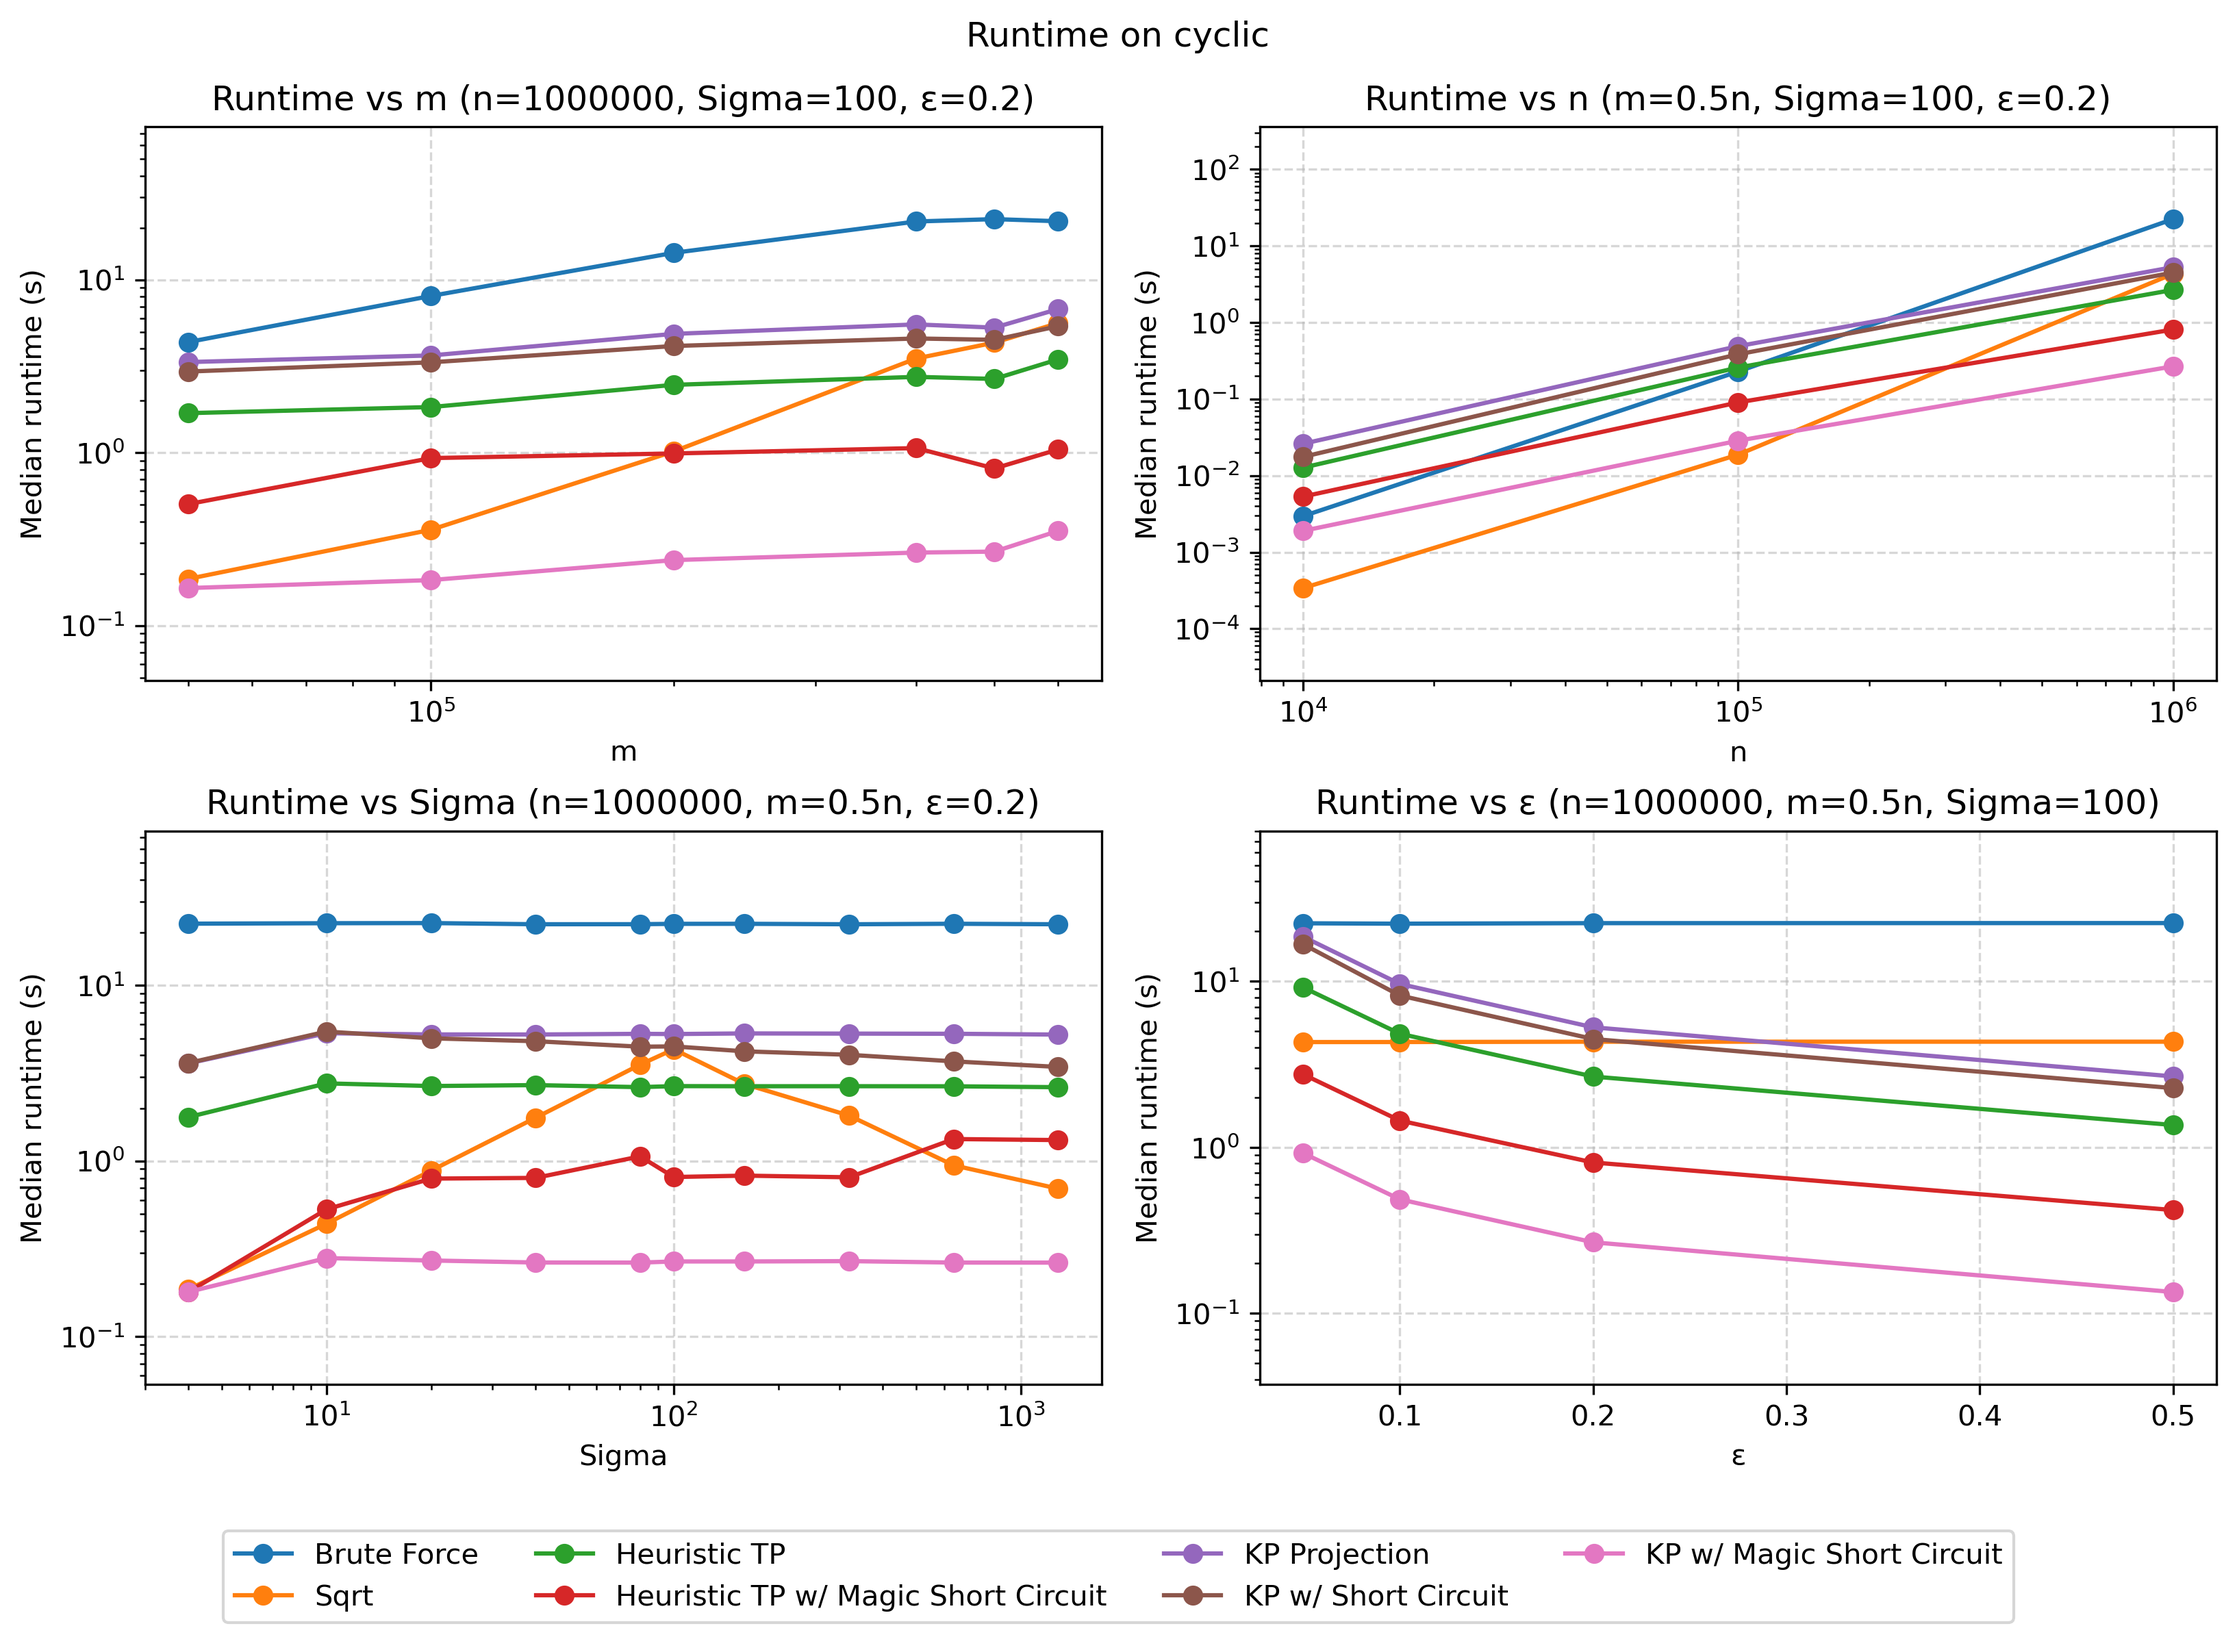
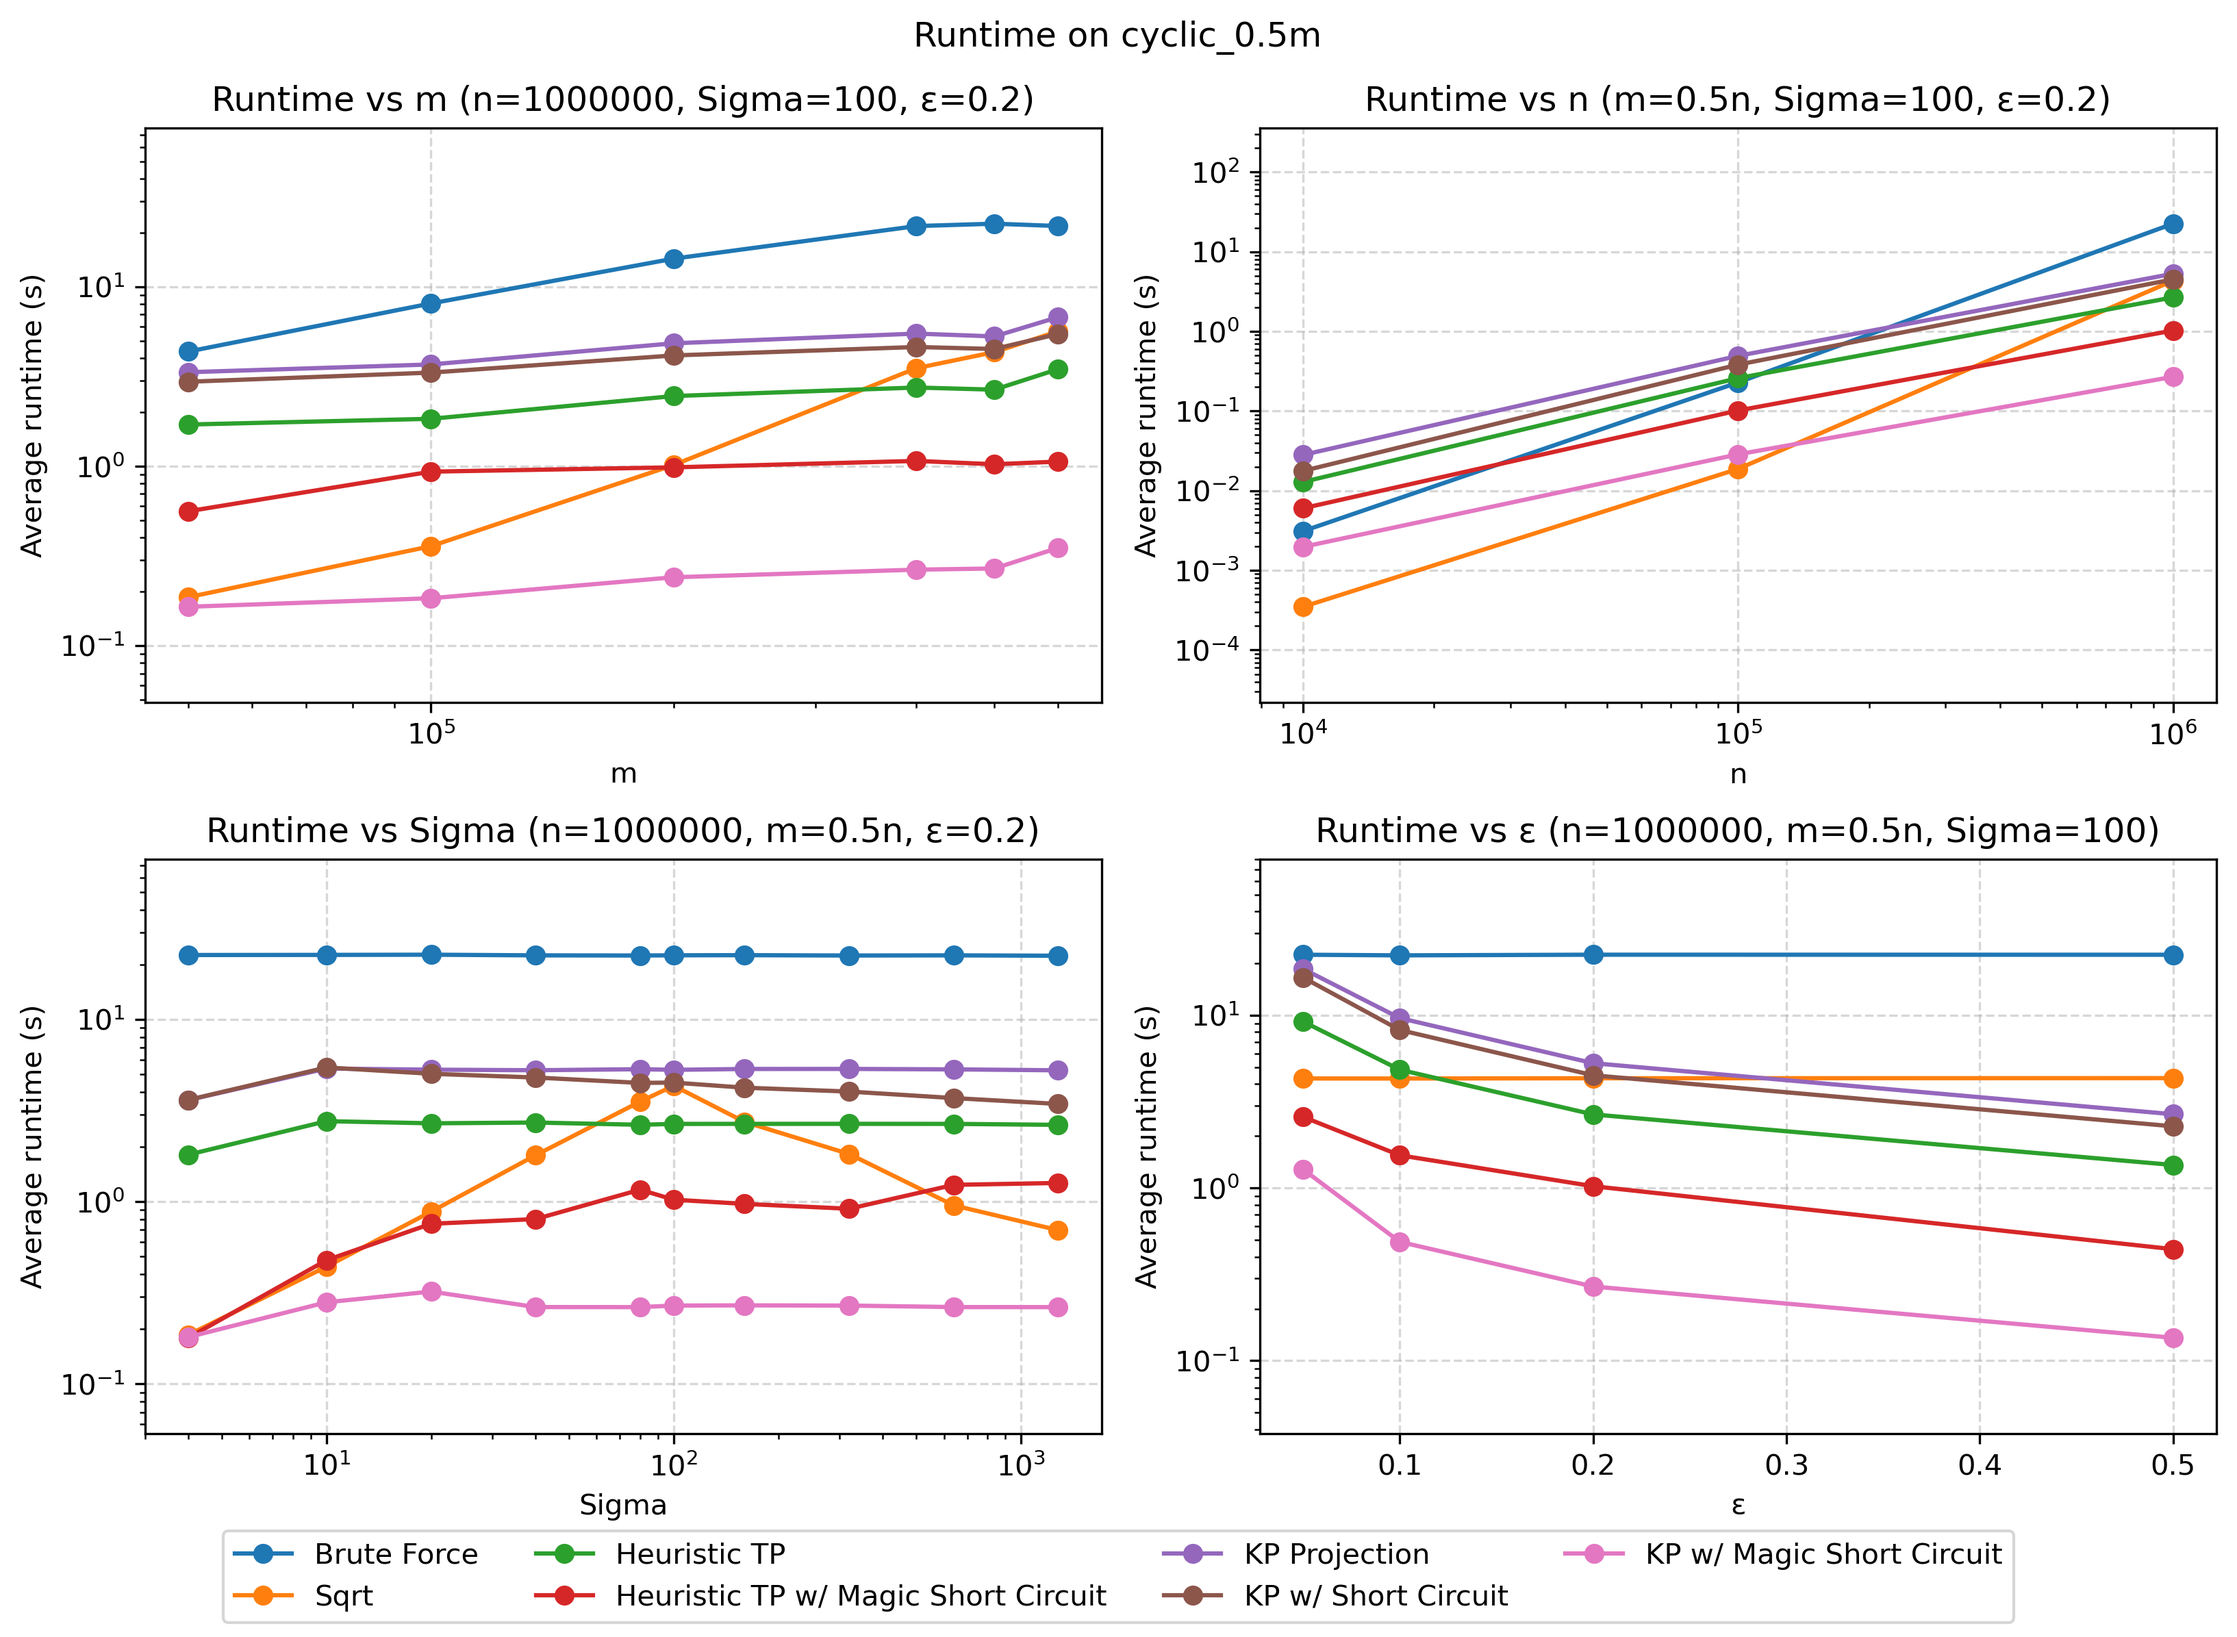
made new figures

diff --git a/src/plotting_new.py b/src/plotting_new.py
@@ -5,7 +5,7 @@ import matplotlib.pyplot as plt
 # -------------------------------------------------
 # Load data and define short algorithm names
 # -------------------------------------------------
-GEN_NAME = "fake_binary_0.8"
+GEN_NAME = "half_skewed"
 df = pd.read_csv("../results/" + GEN_NAME + ".csv").copy()
 
 name_map = {
@@ -164,4 +164,61 @@ fig1.legend(
 )
 
 fig1.savefig("../figures/runtime_" + GEN_NAME + ".png", dpi=300, bbox_inches="tight")
+plt.show()
+
+
+# =====================================================
+# FIGURE 2 — Approx algos: AVG APPROX RATIO panels
+# =====================================================
+fig2, axes2 = plt.subplots(2, 2, figsize=(11, 8))
+
+plot_group_on_ax(
+    axes2[0, 0], sub_m, approx_algos,
+    x_col="m",
+    metric=RATIO,
+    x_label="m",
+    title=f"Approx Ratio vs m (n={baseline_n}, Sigma={baseline_sigma}, ε={baseline_eps})",
+    log_x=True, log_y=False
+)
+
+plot_group_on_ax(
+    axes2[0, 1], sub_n, approx_algos,
+    x_col="n",
+    metric=RATIO,
+    x_label="n",
+    title=f"Approx Ratio vs n (m={baseline_m_frac}n, Sigma={baseline_sigma}, ε={baseline_eps})",
+    log_x=True, log_y=False
+)
+
+plot_group_on_ax(
+    axes2[1, 0], sub_sigma, approx_algos,
+    x_col="sigma",
+    metric=RATIO,
+    x_label="Sigma",
+    title=f"Approx Ratio vs Sigma (n={baseline_n}, m={baseline_m_frac}n, ε={baseline_eps})",
+    log_x=True, log_y=False
+)
+
+plot_group_on_ax(
+    axes2[1, 1], sub_eps, approx_algos,
+    x_col="eps",
+    metric=RATIO,
+    x_label="ε",
+    title=f"Approx Ratio vs ε (n={baseline_n}, m={baseline_m_frac}n, Sigma={baseline_sigma})",
+    log_x=False, log_y=False
+)
+
+handles2, labels2 = axes2[0, 0].get_legend_handles_labels()
+fig2.suptitle(f"Approximation Ratios on {GEN_NAME}", y=0.98)
+
+fig2.tight_layout()
+fig2.subplots_adjust(bottom=BOTTOM_MARGIN)
+
+fig2.legend(
+    handles2, labels2,
+    loc=LEGEND_LOC,
+    ncol=3,
+)
+
+fig2.savefig("../figures/approx_ratio_" + GEN_NAME + ".png", dpi=300, bbox_inches="tight")
 plt.show()
